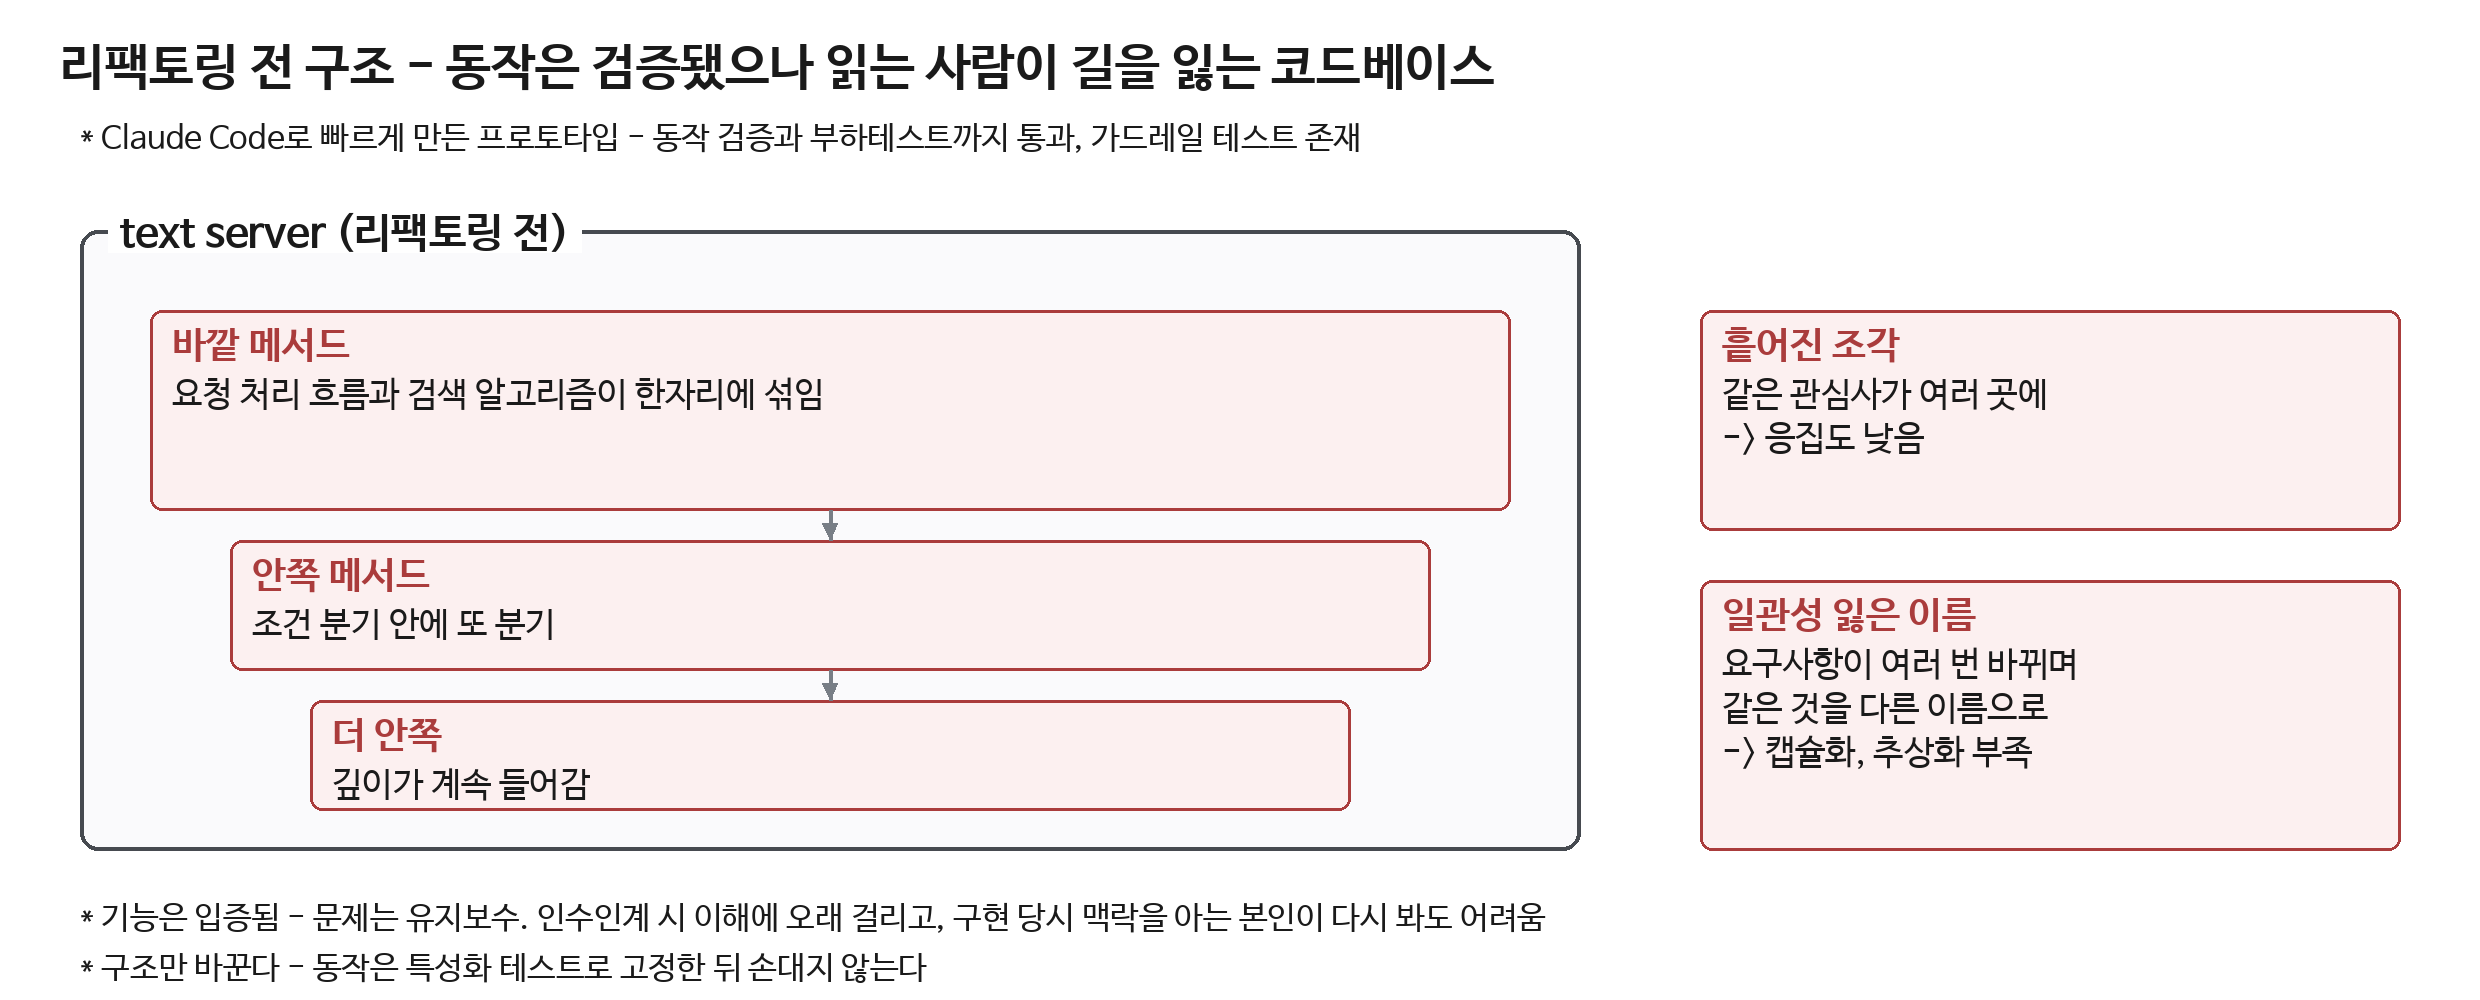
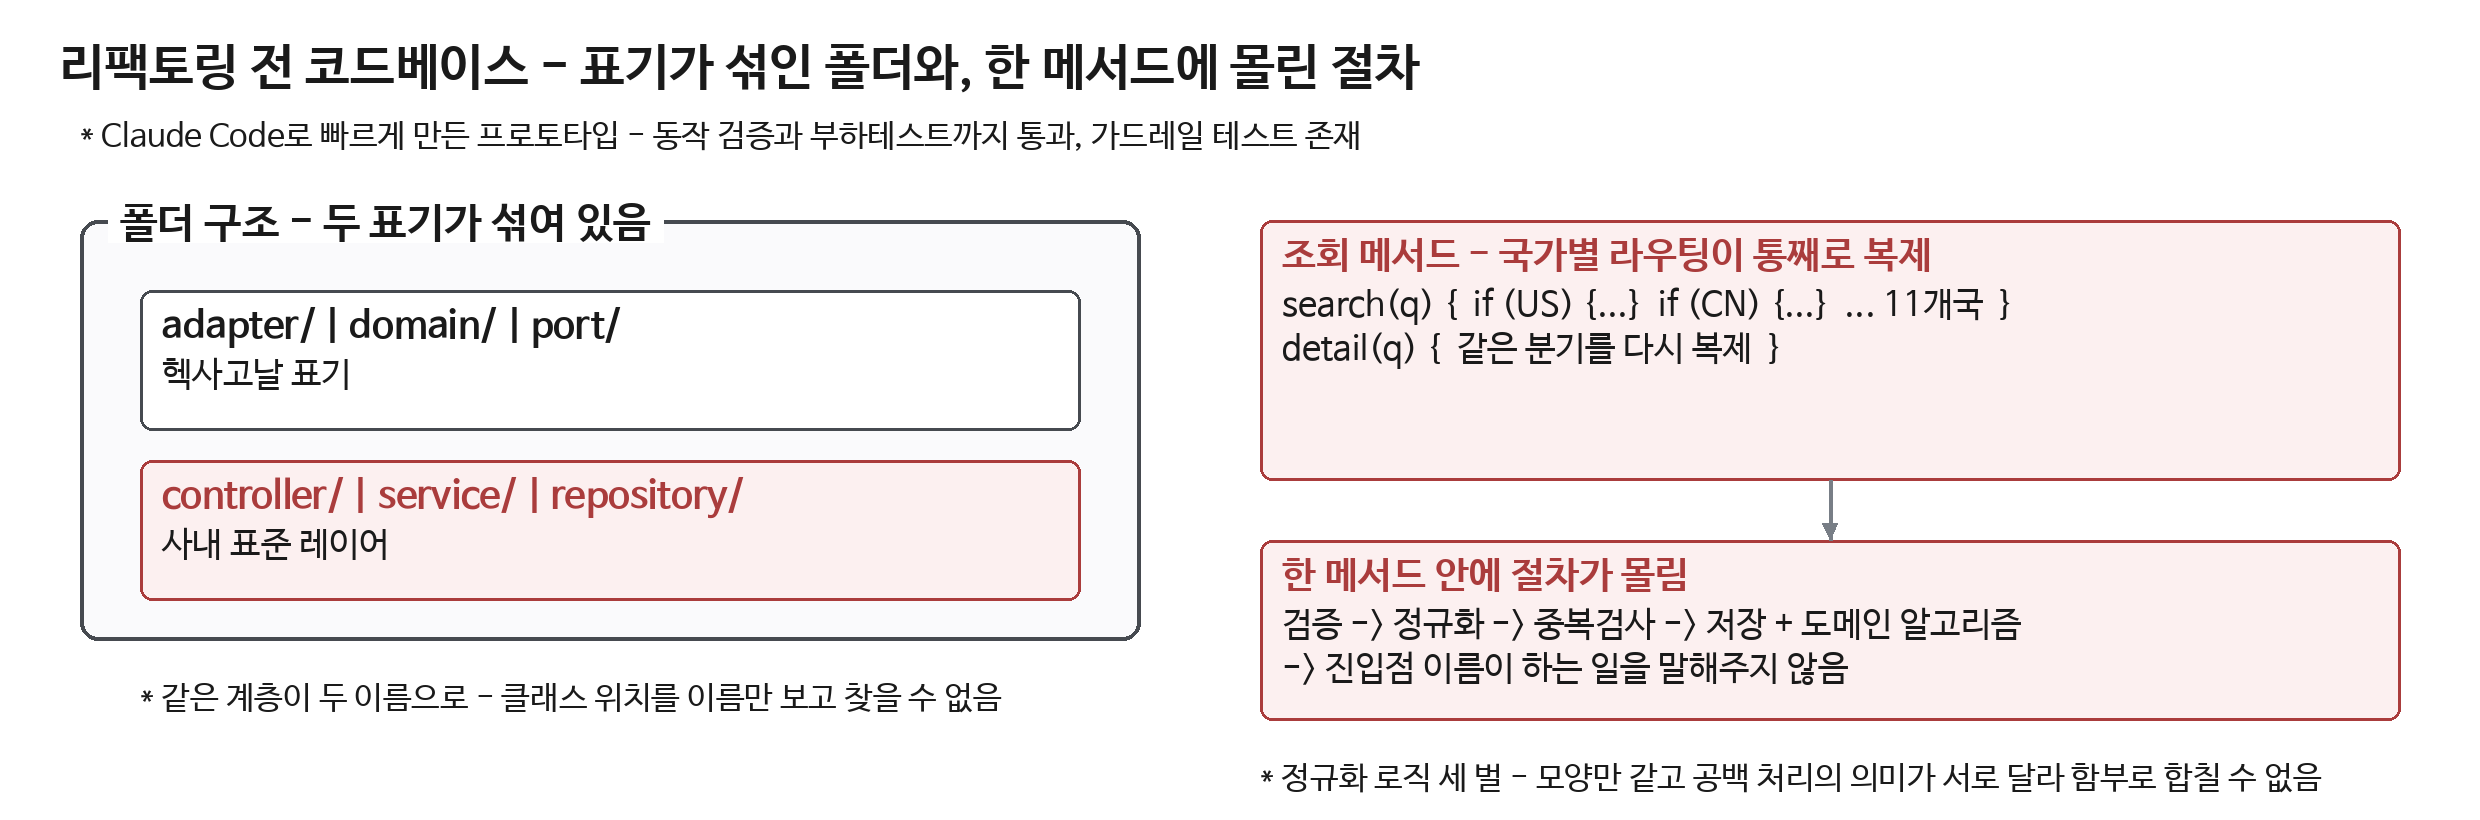
docs(portfolio): 리팩토링 전 도식(도식 21) 재작성 — 추상 상자에서 실제 코드 구조로
- 폴더 구조(헥사고날/사내 표준 혼재) + 조회 메서드의 국가별 라우팅 복제 + 한 메서드에 몰린 절차를 코드 모양으로
- 높이 1000 -> 820으로 압축(페이지 압박 완화)

Changed region(s): [[0.031, 0.2134, 0.9625, 1.0], [0.031, 0.0305, 0.621, 0.1829], [0.6831, 0.5183, 0.9625, 0.5488]]

diff --git a/portfolio/k-brand-guard/04_text_server_리팩토링/README.md b/portfolio/k-brand-guard/04_text_server_리팩토링/README.md
@@ -16,32 +16,27 @@
 가드레일 테스트는 존재했지만, **메서드와 클래스 구조가 깊고 흐름과 알고리즘이 혼재**해 있었으며, 여러 번의 요구사항 변경을 거치며 네이밍도 일관성을 잃었습니다.\
 코드가 여기저기 흩어져 있어 **응집도가 떨어졌고, 캡슐화와 추상화가 부족**해 읽는 사람이 길을 잃기 쉬운 구조였습니다.
 
-### 리팩토링 전 구조 - 동작은 검증됐으나 읽는 사람이 길을 잃는 코드베이스
+### 리팩토링 전 코드베이스 - 표기가 섞인 폴더와, 한 메서드에 몰린 절차
 
 ```text
      * Claude Code로 빠르게 만든 프로토타입 - 동작 검증과 부하테스트까지 통과, 가드레일 테스트 존재
 
-     +-- text server (리팩토링 전) ----------------------------------------------------------------------+
-     |                                                                                                   |
-     |    +------------------------------------------------------------------------------------------+   |       +----------------------------------------------+
-     |    | 바깥 메서드                                                                              |   |       | 흩어진 조각                                  |
-     |    | 요청 처리 흐름과 검색 알고리즘이 한자리에 섞임                                           |   |       | 같은 관심사가 여러 곳에                      |
-     |    |                                                                                          |   |       | -> 응집도 낮음                               |
-     |    |                                                                                          |   |       |                                              |
-     |    +----+---------------------------------------<---------------------------------------+-----+   |       +----------------------------------------------+
-     |         | 안쪽 메서드                                                                   |         |       +----------------------------------------------+
-     |         | 조건 분기 안에 또 분기                                                        |         |       | 일관성 잃은 이름                             |
-     |         +-------------------------------------------------------------------------------+         |       | 요구사항이 여러 번 바뀌며                    |
-     |               +---------------------------------v----------------------------------+              |       | 같은 것을 다른 이름으로                      |
-     |               | 더 안쪽                                                            |              |       | -> 캡슐화, 추상화 부족                       |
-     |               | 깊이가 계속 들어감                                                 |              |       |                                              |
-     +---------------+--------------------------------------------------------------------+--------------+       +----------------------------------------------+
-     * 기능은 입증됨 - 문제는 유지보수. 인수인계 시 이해에 오래 걸리고, 구현 당시 맥락을 아는 본인이 다시 봐도 어려움
-
-     * 구조만 바꾼다 - 동작은 특성화 테스트로 고정한 뒤 손대지 않는다
+     +-- 폴더 구조 - 두 표기가 섞여 있음 -----------------------------------+       +---------------------------------------------------------------------------+
+     |                                                                      |       | 조회 메서드 - 국가별 라우팅이 통째로 복제                                 |
+     |   +--------------------------------------------------------------+   |       | search(q) {  if (US) {...}  if (CN) {...}  ... 11개국  }                  |
+     |   | adapter/ | domain/ | port/                                   |   |       | detail(q) {  같은 분기를 다시 복제  }                                     |
+     |   | 헥사고날 표기                                                |   |       |                                                                           |
+     |   +--------------------------------------------------------------+   |       |                                                                           |
+     |   | controller/ | service/ | repository/                         |   |       +---------------------------------------------------------------------------+
+     |   | 사내 표준 레이어                                             |   |       +-------------------------------------v-------------------------------------+
+     |   +--------------------------------------------------------------+   |       | 한 메서드 안에 절차가 몰림                                                |
+     |                                                                      |       | 검증 -> 정규화 -> 중복검사 -> 저장 + 도메인 알고리즘                      |
+     +----------------------------------------------------------------------+       | -> 진입점 이름이 하는 일을 말해주지 않음                                  |
+         * 같은 계층이 두 이름으로 - 클래스 위치를 이름만 보고 찾을 수 없음         +---------------------------------------------------------------------------+
+                                                                                    * 정규화 로직 세 벌 - 모양만 같고 공백 처리의 의미가 서로 달라 함부로 합칠 수 없음
 ```
 
-도식 21. 리팩토링 전 구조 - 동작은 검증됐으나 읽는 사람이 길을 잃는 코드베이스
+도식 21. 리팩토링 전 코드베이스 - 표기가 섞인 폴더와, 한 메서드에 몰린 절차
 
 ## 해결 과정
 
